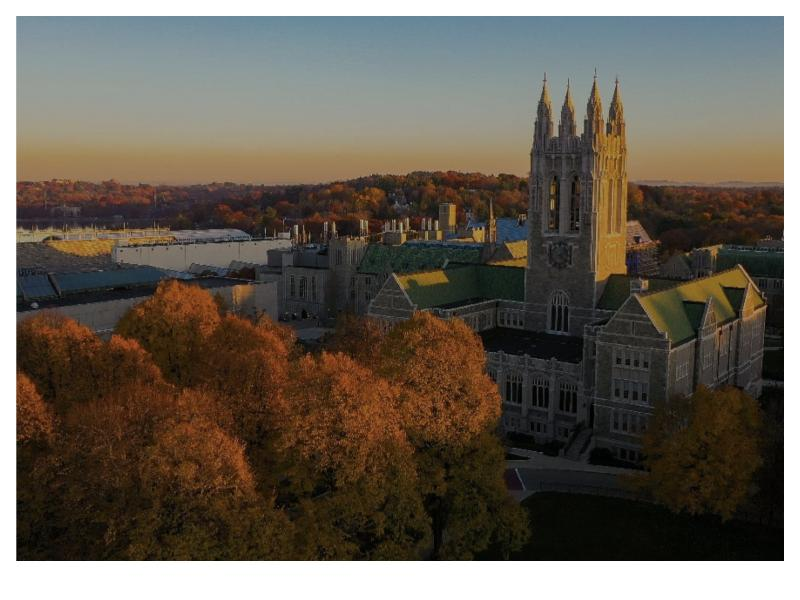
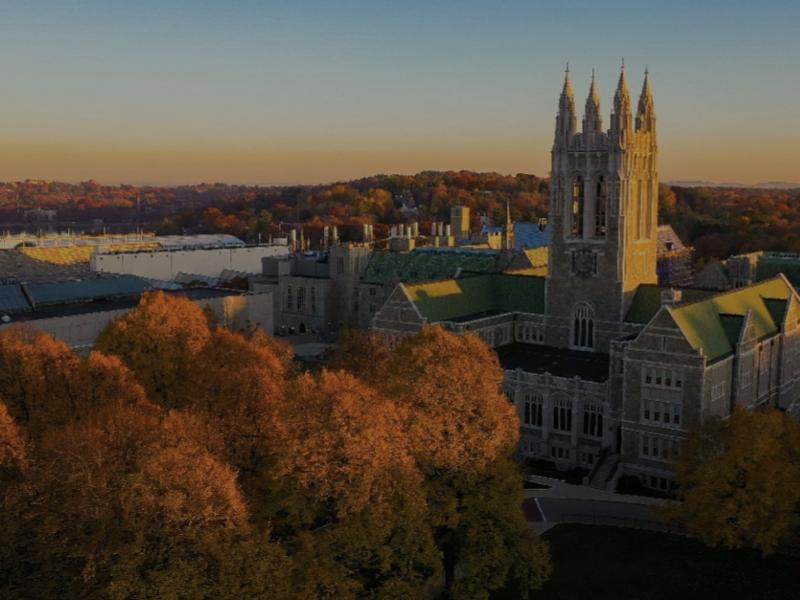
landing DONE

diff --git a/templates/landing.html b/templates/landing.html
@@ -17,16 +17,16 @@
       <div class="hero__nav-links">
         <a href="#about">About</a>
         <a href="#features">Features</a>
-        <a href="/auth/login/">Sign in</a>
+        <a href="/auth/login/">Log in</a>
       </div>
-      <a href="/auth/signup/" class="hero__cta-btn">Get Started</a>
+      <div class="hero__nav-spacer"></div>
     </nav>
 
     <div class="hero__content">
       <div class="hero__copy">
         <h1>Find your next chapter off-campus with Perch.</h1>
         <p class="hero__subtitle">
-          Explore verified listings, match with compatible roommates, and move in with confidence — all in one place made for your campus.
+          Explore verified listings, match with compatible roommates, and move in with confidence, all in one place.
         </p>
         <div class="hero__primary-cta">
           <a href="/auth/signup/" class="btn-primary">Get started</a>
@@ -92,7 +92,7 @@
           <article class="feature-card">
             <h3>Roommate compatibility</h3>
             <p>
-              Share your preferences and lifestyle, then discover students who are actually a fit — before you sign a lease together.
+              Share your preferences and lifestyle, then discover students who fit your lifestyle.
             </p>
           </article>
 
@@ -113,7 +113,7 @@
       </div>
     </section>
 
-    <section class="section section--cta">
+    <section id="get-started" class="section section--cta">
       <div class="section__inner cta__content">
         <div>
           <div class="section__eyebrow">Get started</div>

diff --git a/static/css/landing.css b/static/css/landing.css
@@ -21,6 +21,10 @@ body {
   background-color: var(--perch-cream);
 }
 
+html {
+  scroll-behavior: smooth;
+}
+
 .hero {
   position: relative;
   min-height: 100vh;
@@ -52,16 +56,23 @@ body {
 }
 
 .hero__logo {
+  flex: 1;
   font-family: "Playfair Display", "Times New Roman", serif;
   font-size: 26px;
   letter-spacing: 0.04em;
 }
 
 .hero__nav-links {
+  flex: 1;
   display: flex;
   align-items: center;
+  justify-content: center;
   gap: 20px;
   font-size: 14px;
+}
+
+.hero__nav-spacer {
+  flex: 1;
 }
 
 .hero__nav-links a {
